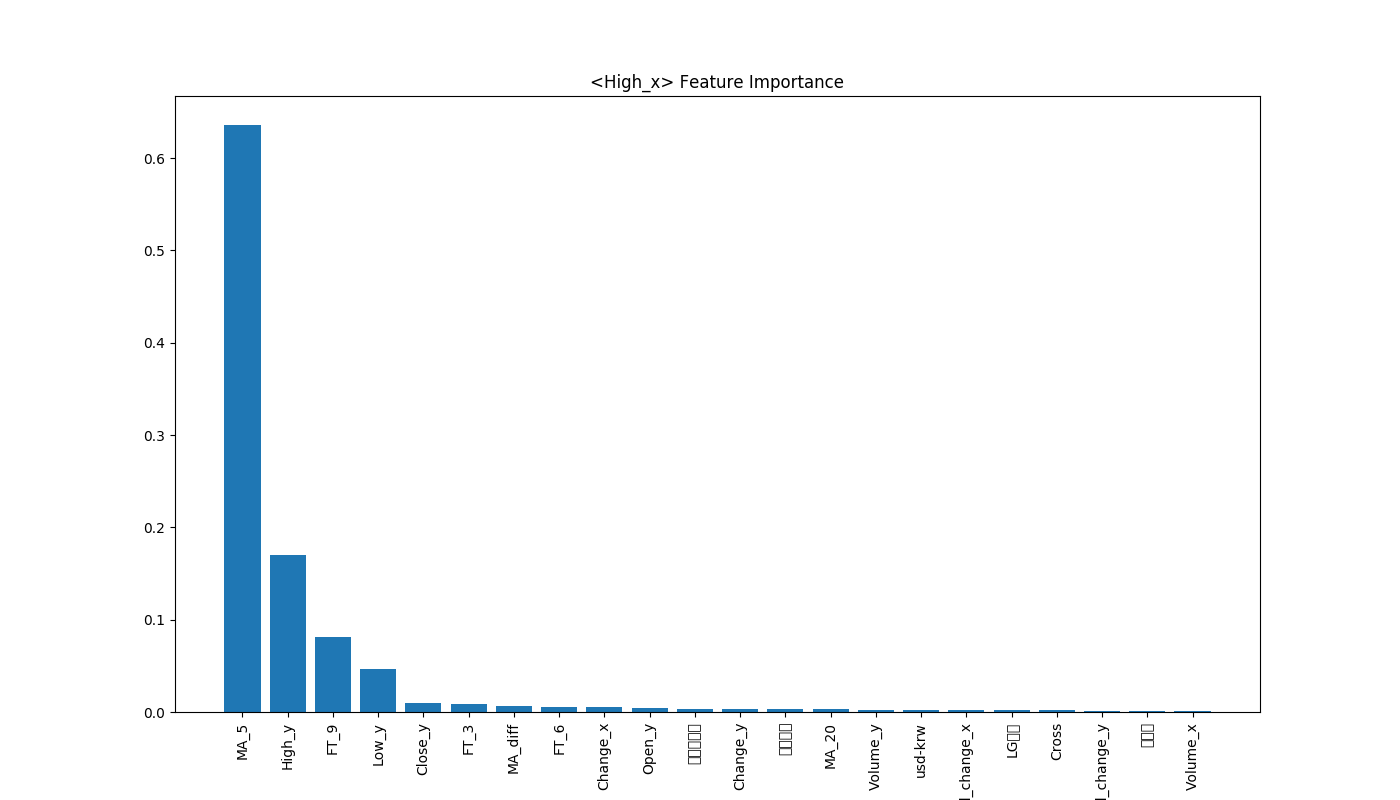
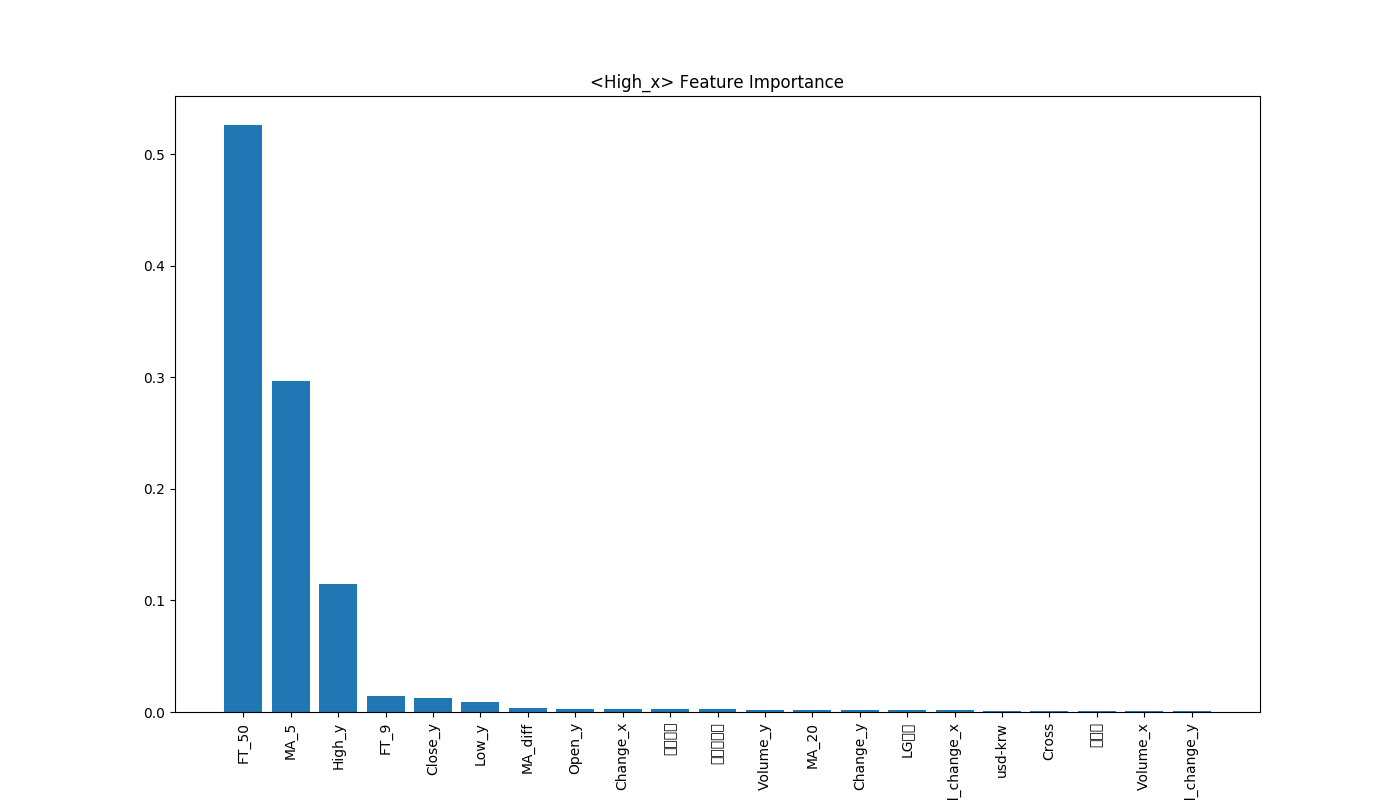
fix bug in LSTM + Facebook Prophet

diff --git a/Model/Data_preparation.py b/Model/Data_preparation.py
@@ -1,12 +1,14 @@
 import sys
 import os
-from datetime import datetime
+from datetime import datetime, timedelta
 from dateutil.relativedelta import relativedelta
 from pathlib import Path
 import pandas as pd
+from pandas._libs.tslibs.timestamps import Timestamp
+import numpy as np
 from matplotlib import rcParams
 from matplotlib import pyplot as plt
-import numpy as np
+from sklearn.preprocessing import LabelEncoder
 from statsmodels.tsa.arima_model import ARIMA
 from pandas.plotting import autocorrelation_plot
 from sklearn.metrics import mean_squared_error
@@ -82,7 +84,7 @@ class CombineData:
         :param moving_avg:    (Derivative Column) Moving Average with window size 20 days
         :return: combined data
         """
-        source = self.finance_data
+        source = self.finance_data  # for better computability
 
         # price_df --> Date, Open, High, Low, Close, Volume, Change
         price_df = source.get_company_price_data(self.company_code)
@@ -115,7 +117,7 @@ class CombineData:
 
         del source
 
-        # 액면분할시 생기는 0값들 있는 row drop
+        # 액면분할 (Forward Split) 시 생기는 0값들 있는 row drop
         drop_index = merged[merged['Open_x'] == 0].index
         merged = merged.drop(drop_index)
 
@@ -216,7 +218,7 @@ class CombineData:
 
             Path(self.plots_dir_path).mkdir(parents=True, exist_ok=True)
             plt.figure(figsize=(14, 7), dpi=100)
-            for num_ in [3, 6, 9]:
+            for num_ in [9, 50]:
                 fft_list_m10 = np.copy(close_fft)
                 fft_list_m10[num_:-num_] = 0
                 ft_final = list(map(np.real, (np.fft.ifft(fft_list_m10))))  # Discarding Imaginary parts
@@ -275,19 +277,106 @@ class CombineData:
         return merged
 
     def combine_language_data(self):
-        merged = None
-        return merged
+
+        # source = self.finance_data
+        # read csv before deployment
+        # news = self.naver_crawler.crawl_news()
+        # research = self.naver_crawler.crawl_research()
+        news = pd.read_csv('../Crawler/crawled_result/005930/News/fullPage/pages1-2.csv')
+        research = pd.read_csv('../Crawler/crawled_result/005930/Research/fullPage/pages1-25.csv')
+
+        # not needed when getting object directly from Crawler
+        news = news.drop('Unnamed: 0', axis=1)
+        research = research.drop('Unnamed: 0', axis=1)
+
+        news = news[['Date', 'Title', 'Body']]
+        research = research[['Date', 'Title', 'Body', 'Goal_Price', 'Opinion', 'Views']]
+        research['Date'] = '20' + research['Date']
+
+        # convert to Timestamp object
+        news['Date'] = pd.to_datetime(news['Date'])
+        research['Date'] = pd.to_datetime(research['Date'])
+
+        ##########
+        #  NEWS  #
+        ##########
+        def today_or_next_day(time):
+            """
+            return True if today's news, False if next day's news
+            """
+            today_close_time = Timestamp(time.date()) + timedelta(hours=15, minutes=30)
+
+            return time <= today_close_time
+
+        # Initialize which_date column
+        news['which_date'] = 0
+
+        # Fill in which_date column
+        for i, timestamp in enumerate(news['Date']):
+            if today_or_next_day(timestamp):
+                news.at[i, 'which_date'] = Timestamp(timestamp.date())
+            else:
+                news.at[i, 'which_date'] = Timestamp(timestamp.date()) + timedelta(days=1)
+
+        news = news[['which_date', 'Title', 'Body']]
+        news.columns = ['Date', 'Title', 'Body']
+
+        def concat_series_by_date(data, column):
+            """
+            concat all the values in specified column, splitted by date
+            :param column: target column name
+            :return: list of concatenated values
+            """
+            finals = []
+
+            for date in data['Date'].unique():
+                temp_log = " "
+                values = data[data['Date'] == date][column].values
+                temp_log = temp_log.join(values)
+
+                finals.append(temp_log)
+
+            return finals
+
+        news_title_grouped = concat_series_by_date(column='Title')
+        news_body_grouped = concat_series_by_date(column='Body')
+
+        news_grouped = pd.DataFrame({
+            'Date': news['Date'].unique(),
+            'Title': news_title_grouped,
+            'Body': news_body_grouped,
+            'Sentiment': np.nan,
+            'Polarity': np.nan
+        })
+
+        print(news_grouped)
+
+        # USE API to get scores
+        # for i, title in enumerate(grouped['Title']):
+        #     sentiment_result = self.saltlux.request_sentiment(text_content=title, dump=True)
+        #     polarity, score, _ = self.saltlux.parse_sentiment_json(sentiment_json=sentiment_result)
+        #     grouped.at[i, 'Sentiment'] = score
+        #     grouped.at[i, 'Polarity'] = polarity
+
+
+        ############
+        # Research #
+        ############
+
+        # Opinion Encoding
+        research['Opinion'] = LabelEncoder.fit_transform(research['Opinion'])
+
+        research_title_grouped = concat_series_by_date(data=research, column='Title')
+        research_body_grouped = concat_series_by_date(data=research, column='Body')
+
+
+
+        return None
 
     def combine(self, volume_change=True, moving_avg=True, us_currency=False, fourier=True):
 
-        if self._include_language:
-            # TODO: combine finance and language
-            combined = None
-            pass
-        else:
-            # TODO: just call combine_finance_data()
-            combined = self.combine_finance_data(volume_change=volume_change, moving_avg=moving_avg,
-                                                 us_currecny=us_currency, fourier=fourier)
+        combined = self.combine_finance_data(volume_change=volume_change, moving_avg=moving_avg,
+                                             us_currecny=us_currency, fourier=fourier)
 
         # volume change, MA_diff 가 0인 row는 제거
         drop_index = combined[combined['vol_change_x'] == 0].index
@@ -299,6 +388,11 @@ class CombineData:
         drop_index = combined[combined['MA_diff'] == 0].index
         combined = combined.drop(drop_index)
 
+        if self._include_language:
+            # TODO: combine finance and language
+            combined = None
+            pass
+
         if self._save_as_csv:
             combined.to_csv(os.path.join(self.target_dir_path, self.file_name))
 
@@ -308,7 +402,7 @@ class CombineData:
 # main
 combine_data = CombineData('005930', years=3)
 combined_df = combine_data.combine(us_currency=True)
-print(combined_df)
-
+# print(combined_df)
+# combine_data.combine_language_data()
 
 

diff --git a/Model/Prophet_Model.py b/Model/Prophet_Model.py
@@ -1,0 +1,71 @@
+import numpy as np
+import pandas as pd
+import matplotlib.pyplot as plt
+from FinanceDataReader import DataReader
+from fbprophet import Prophet
+import os
+from pathlib import Path
+
+
+class Prophet_Model:
+    def __init__(self, company_code='005930', target='Close', _from=None, data_path=None,
+                 predict_period=365, daily_seasonality=True
+                 ):
+        if data_path is not None:
+            data = pd.read_csv(data_path)
+            data = data[['Date', 'Close_x']]
+            # Rename the features: These names are NEEDED for the model fitting
+            data.columns = ['ds', 'y']
+            self.data = data
+        else:
+            data = DataReader(company_code, _from)
+            data = data[[target]]
+            data = data.reset_index()
+            data.columns = ['ds', 'y']
+            self.data = data
+
+        self.company_code = company_code
+        self.target_col = target
+
+        # we need to specify the number of days in future
+        self.predict_period = predict_period
+        self.model = Prophet(daily_seasonality=daily_seasonality)
+
+        # Path Handling for plots
+        plot_dirname = self.company_code + '_plots'
+        root_dir = os.path.dirname(__file__)
+        self.plots_dir_path = os.path.join(root_dir, plot_dirname)
+
+    def fit_and_predict(self):
+        self.model.fit(self.data)  # fit the model using all data
+        future = self.model.make_future_dataframe(periods=self.predict_period)
+        prediction = self.model.predict(future)
+
+        return prediction
+
+    def plot_prediction(self, prediction_df):
+        Path(self.plots_dir_path).mkdir(parents=True, exist_ok=True)
+
+        self.model.plot(prediction_df)
+        plt.title(f"Prediction of the {self.company_code} Stock Price using the Prophet")
+        plt.xlabel("Trading Day")
+        plt.ylabel(f"{self.target_col} Stock Price")
+        plt.savefig('./' + self.company_code + '_plots/prophet_pred.png')
+
+    def plot_pred_details(self, prediction_df):
+        Path(self.plots_dir_path).mkdir(parents=True, exist_ok=True)
+
+        self.model.plot_components(prediction_df)
+        plt.savefig('./' + self.company_code + '_plots/prophet_pred_details.png')
+
+
+# main
+# path = './005930_final_data/from_2017-08-19.csv'
+company_code = '005930'
+prophet = Prophet_Model(company_code=company_code, _from='2010', predict_period=365, daily_seasonality=True)
+prediction = prophet.fit_and_predict()
+prophet.plot_prediction(prediction_df=prediction)
+prophet.plot_pred_details(prediction_df=prediction)
+
+
+

diff --git a/Model/FeatureEngineering.py b/Model/FeatureEngineering.py
@@ -7,7 +7,7 @@ from pandas import read_csv
 from matplotlib import pyplot as plt
 from xgboost import XGBRegressor
 
-path = './005930_final_data/from_2017-08-10.csv'
+path = './005930_final_data/from_2017-08-19.csv'
 data = read_csv(path)
 
 print('Total dataset has {} samples, and {} features.'.format(data.shape[0], data.shape[1]))

diff --git a/Model/Multivariate_LSTM.py b/Model/Multivariate_LSTM.py
@@ -174,6 +174,7 @@ class MultivariateLSTM:
         print("vali_X, vali_y shape: ", vali_X.shape, vali_y.shape)
         print("test_X, test_y shape: ", test_X.shape, test_y.shape)
 
+        # TODO
         import sys
         sys.exit(0)
 
